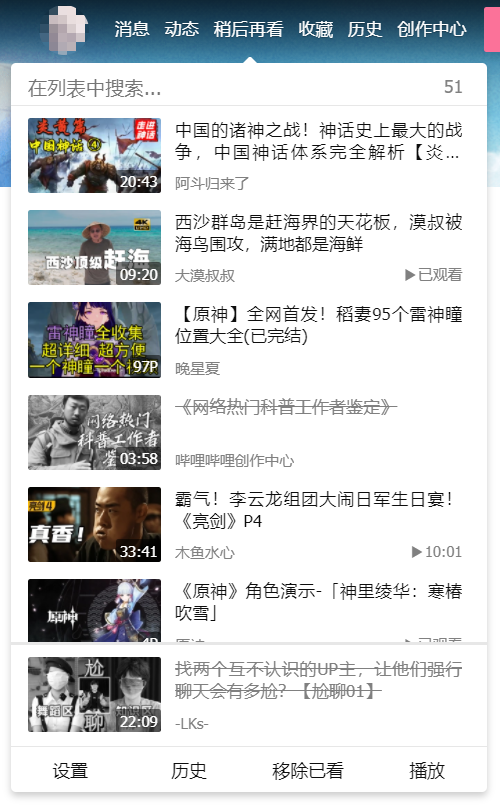
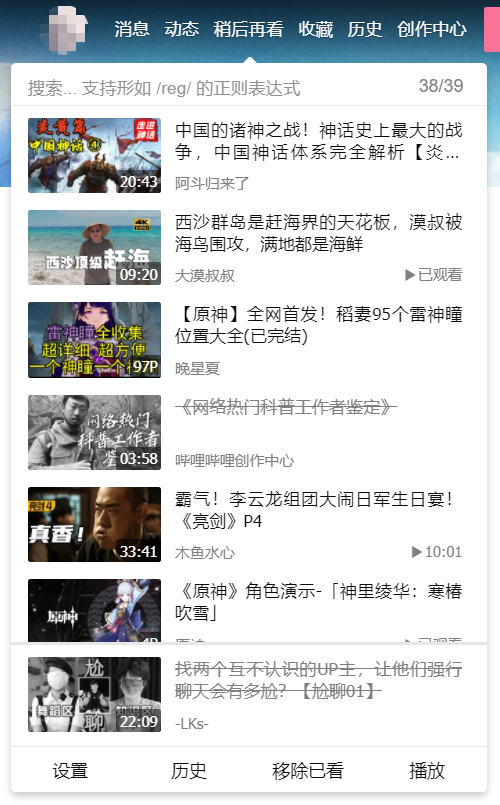
B站稍后再看功能增强 4.15.3.20210722
* 顶栏入口：弹出菜单搜索支持正则表达式。
* 顶栏入口：优化弹出菜单中，视频总数/搜索结果总数等的显示方案。

Changed region(s): [[0.06, 0.0932, 0.6, 0.1242], [0.84, 0.0932, 0.93, 0.1242]]

diff --git a/script/BilibiliWatchlaterPlus/BilibiliWatchlaterPlus.user.js b/script/BilibiliWatchlaterPlus/BilibiliWatchlaterPlus.user.js
@@ -1,6 +1,6 @@
 // ==UserScript==
 // @name            B站稍后再看功能增强
-// @version         4.15.2.20210722
+// @version         4.15.3.20210722
 // @namespace       laster2800
 // @author          Laster2800
 // @description     与稍后再看功能相关，一切你能想到和想不到的功能
@@ -2536,7 +2536,7 @@
               <div class="gm-popup-arrow"></div>
               <div class="gm-popup-header">
                 <div class="gm-popup-search">
-                  <input type="text" placeholder="在列表中搜索...">
+                  <input type="text" placeholder="搜索... 支持形如 /reg/ 的正则表达式">
                   <div class="gm-popup-search-clear">✖</div>
                 </div>
                 <div class="gm-popup-total" title="列表条目数">0</div>
@@ -2574,30 +2574,46 @@
 
             if (gm.config.headerMenuSearch) {
               el.search.oninput = function() {
-                const val = this.value
+                const regex = /^\/.+\/$/.test(this.value)
+                let val = null
+                if (regex) {
+                  try {
+                    val = new RegExp(this.value.slice(1, -1), 'i')
+                  } catch (e) { /* 正则表达式错误，让搜索结果为 0 */ }
+                } else {
+                  val = this.value.toLowerCase()
+                }
+                const match = str => {
+                  if (regex) {
+                    return val && str && val.test(str)
+                  } else {
+                    return str?.toLowerCase().indexOf(val) > -1
+                  }
+                }
                 const lists = [el.entryList, el.entryRemovedList]
-                if (val.length > 0) {
+                if (this.value.length > 0) {
                   el.searchClear.style.visibility = 'visible'
                 } else {
                   el.searchClear.style.visibility = 'hidden'
                 }
-                let cnt = 0
-                for (const list of lists) {
+                const cnt = [0, 0]
+                for (let i = 0; i < lists.length; i++) {
+                  const list = lists[i]
                   if (list.total > 0) {
-                    for (let i = 0; i < list.childElementCount; i++) {
+                    for (let j = 0; j < list.childElementCount; j++) {
                       let valid = false
-                      const card = list.children[i]
-                      if (val.length > 0) {
-                        if (card.title?.indexOf(val) > -1) {
+                      const card = list.children[j]
+                      if (this.value.length > 0) {
+                        if (match(card.title)) {
                           valid = true
-                        } else if (card.uploader?.indexOf(val) > -1) {
+                        } else if (match(card.uploader)) {
                           valid = true
                         }
                       } else {
                         valid = true
                       }
                       if (valid) {
-                        cnt += 1
+                        cnt[i] += 1
                         if (card.searchHide) {
                           api.dom.removeClass(card, 'gm-search-hide')
                           card.searchHide = false
@@ -2612,8 +2628,7 @@
                     list.scrollTop = 0
                   }
                 }
-                const total = lists.reduce((acc, cur) => acc + cur.total, 0)
-                el.popupTotal.innerText = cnt != total ? `${cnt}/${total}` : total
+                el.popupTotal.innerText = `${cnt[0]}${cnt[1] > 0 ? `/${cnt[0] + cnt[1]}` : ''}`
               }
               el.searchClear.onclick = function() {
                 el.search.value = ''
@@ -2841,7 +2856,7 @@
               el.entryRemovedList.style.display = ''
             }
 
-            el.popupTotal.innerText = el.entryList.total + el.entryRemovedList.total
+            el.popupTotal.innerText = `${el.entryList.total}${el.entryRemovedList.total > 0 ? `/${el.entryList.total + el.entryRemovedList.total}` : ''}` 
             if (gm.config.removeHistory && gm.config.removeHistorySavePoint == Enums.removeHistorySavePoint.listAndMenu) {
               _self.method.updateRemoveHistoryData()
             }
@@ -3472,6 +3487,7 @@
           --text-bold-color: #3a3a3a;
           --light-text-color: white;
           --hint-text-color: gray;
+          --light-hint-text-color: #909090;
           --hint-text-emphasis-color: #666666;
           --hint-text-hightlight-color: #555555;
           --background-color: white;
@@ -3547,6 +3563,10 @@
           width: 18em;
           padding-right: 6px;
           color: var(--text-color);
+        }
+        #${gm.id} .gm-entrypopup .gm-popup-search input[type=text]::placeholder {
+          font-size: 0.9em;
+          color: var(--light-hint-text-color);
         }
         #${gm.id} .gm-entrypopup .gm-popup-search-clear {
           display: inline-block;

diff --git a/script/BilibiliWatchlaterPlus/changelog.md b/script/BilibiliWatchlaterPlus/changelog.md
@@ -4,15 +4,16 @@
 
 ## V4.15
 
-1. 顶栏入口：优化菜单的弹出与关闭逻辑。
-2. 顶栏入口：优化菜单内列表数据的展示。
-3. 顶栏入口：优化第三方兼容。
-4. 自动移除：对于「若视频在稍后再看中，则移除出稍后再看」选项，跳过确认视频是否在稍后再看中的检查，直接执行移除。
-5. 填充缺失状态信息：在动态主页中，手动将视频添加或移除出稍后再看时，更新结果会同步到其他动态分类中。
-6. 脚本：若稍后再看列表数据获取失败，使用上一次的加载结果而非空数据。
-7. 脚本：优化脚本菜单运行流程。
-8. 脚本：优化数值类型配置项的输入限制逻辑。
-9. 脚本：修复数值类型配置项无法保存为 `0` 的问题。
+1. 顶栏入口：优化弹出菜单的弹出与关闭逻辑。
+2. 顶栏入口：优化弹出菜单中的数据展示。
+3. 顶栏入口：弹出菜单搜索支持正则表达式。
+4. 顶栏入口：优化第三方兼容。
+5. 自动移除：对于「若视频在稍后再看中，则移除出稍后再看」选项，跳过确认视频是否在稍后再看中的检查，直接执行移除。
+6. 填充缺失状态信息：在动态主页中，手动将视频添加或移除出稍后再看时，更新结果会同步到其他动态分类中。
+7. 脚本：若稍后再看列表数据获取失败，使用上一次的加载结果而非空数据。
+8. 脚本：优化脚本菜单运行流程。
+9. 脚本：优化数值类型配置项的输入限制逻辑。
+10. 脚本：修复数值类型配置项无法保存为 `0` 的问题。
 
 ## V4.14
 
